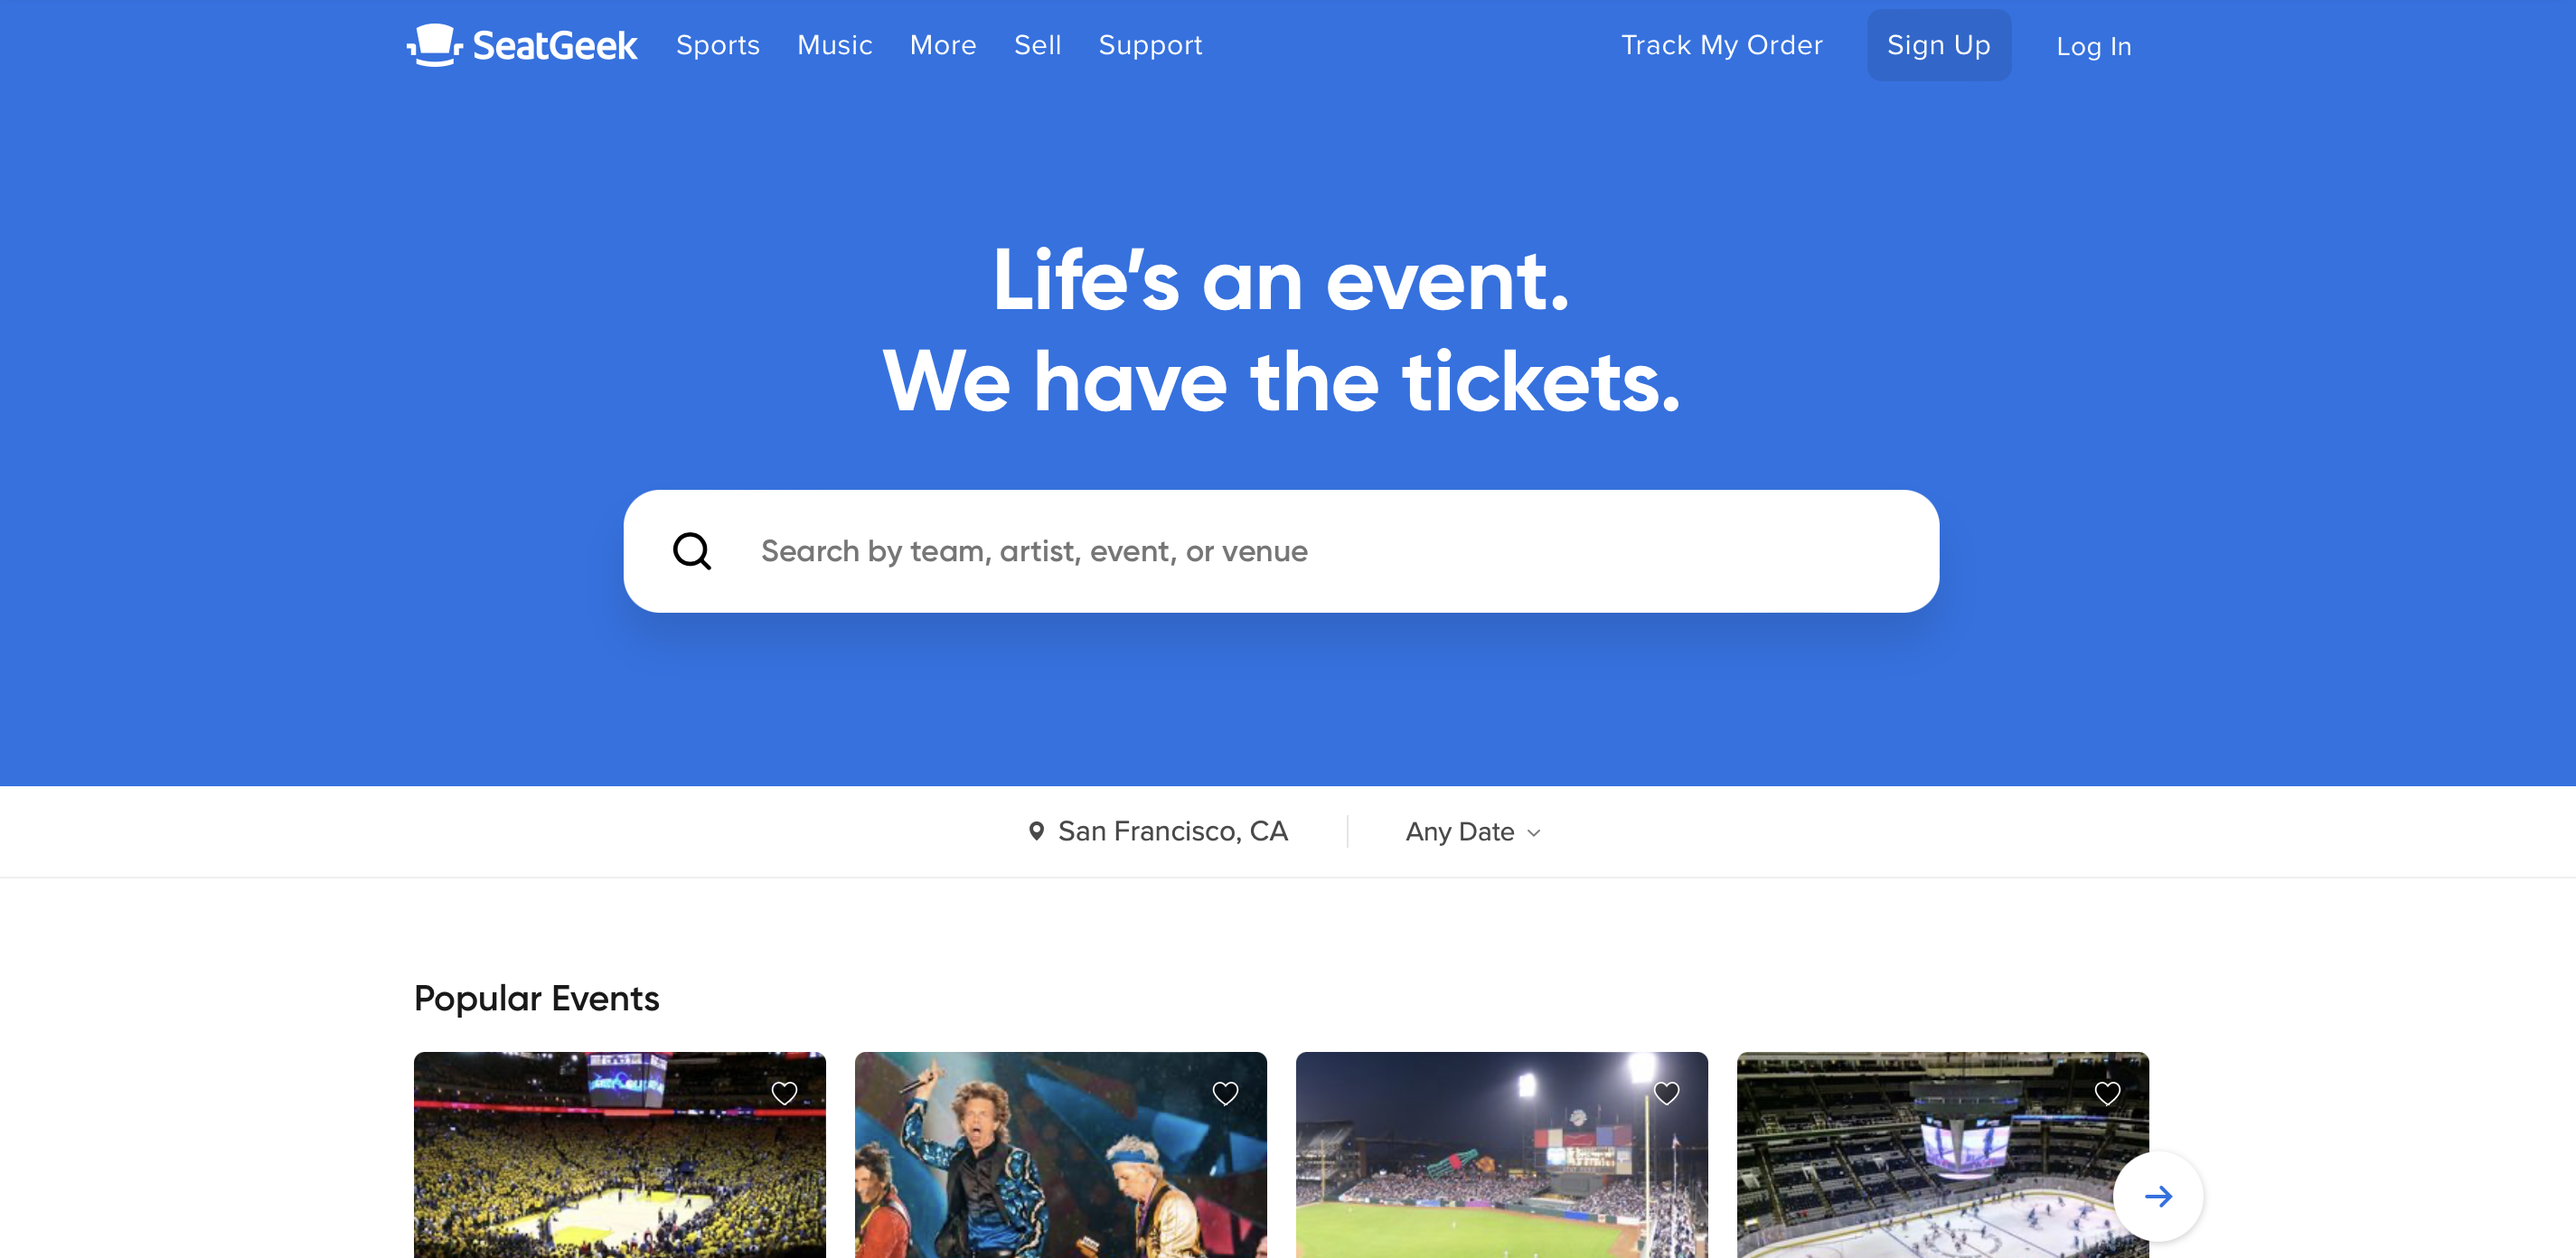
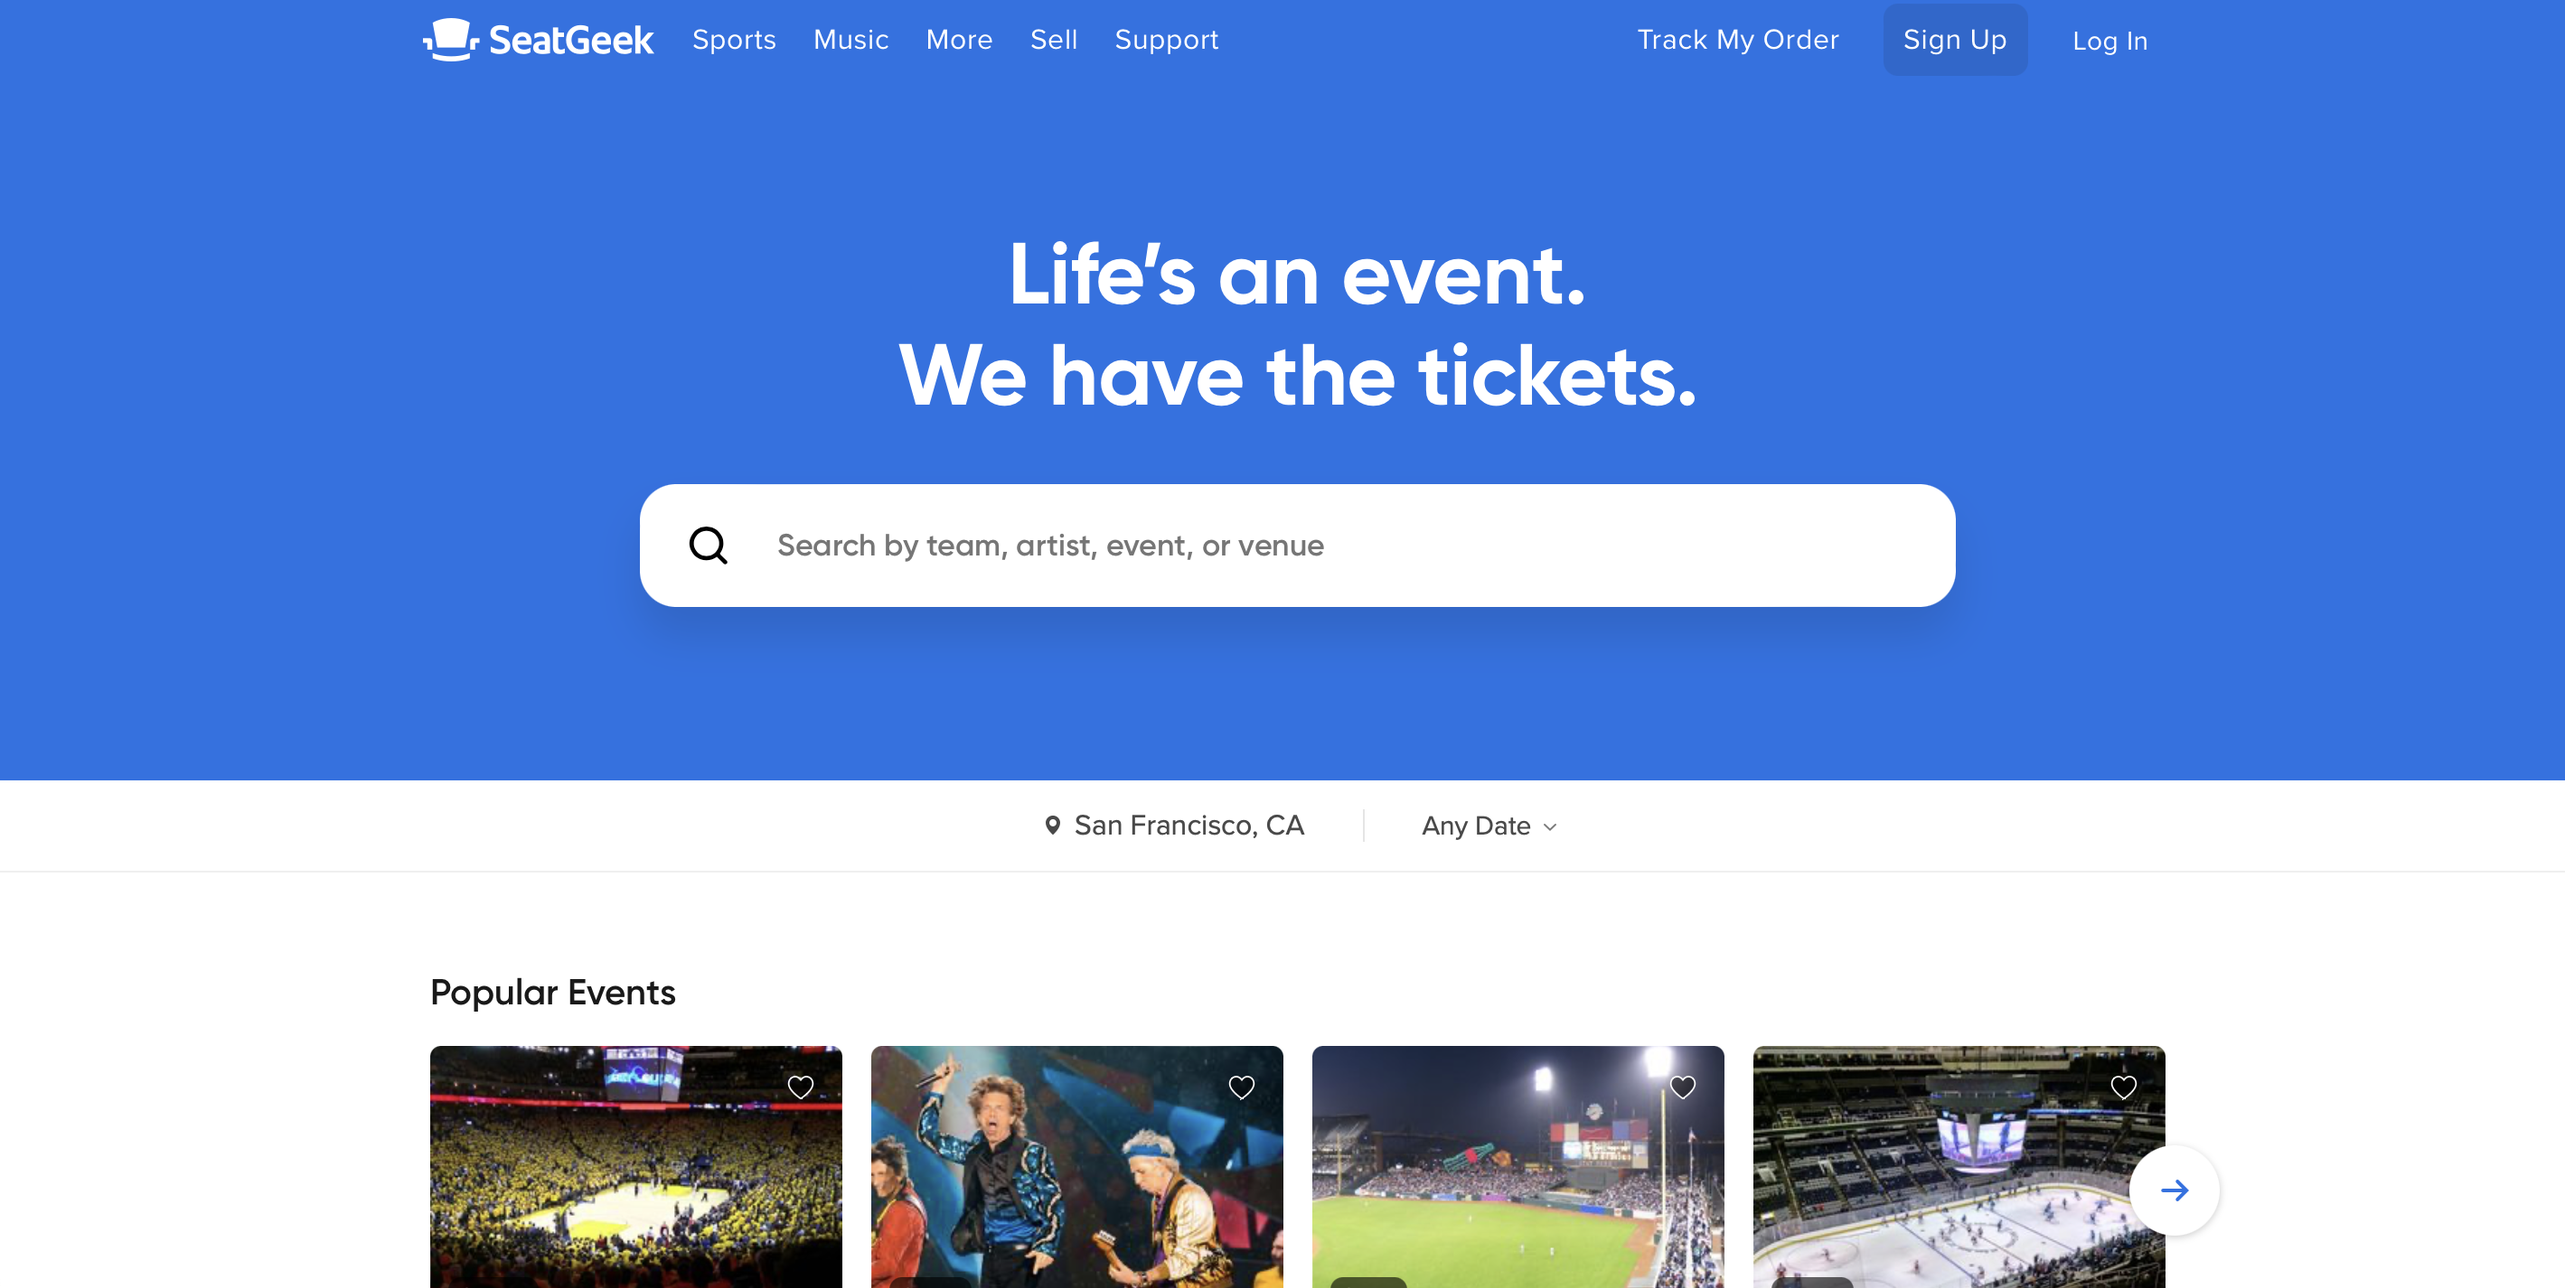
add listing

diff --git a/src/components/projects.js b/src/components/projects.js
@@ -2,27 +2,28 @@ import React from "react";
 import styled from "styled-components";
 import { useOverlay } from "../OverlayContext";
 import AppIcons from "./app-icons/AppIcons";
-import { GenericLinkButton, GitHubButton, SourceHutButton } from "./buttons";
-import { LabelIos, LabelOpenFin, LabelOpenSource, LabelWeb } from "./labels";
-import whatsAppShare from "./assets/mor/whatsapp-share.png";
-import socialprofile from "./assets/mor/social-profile.jpg";
+import alerter from "./assets/alerter/alerter.png";
+import invidilinkDefault from "./assets/invidilink/invidilink-default.png";
+import invidilinkInvidious from "./assets/invidilink/invidilink-invidious.png";
+import invidilinkList from "./assets/invidilink/invidilink-list.png";
 import homescreen from "./assets/mor/homescreen.jpg";
 import library from "./assets/mor/library.jpg";
-import alerter from "./assets/alerter/alerter.png";
-import twit2nitDefault from "./assets/twit2nit/twit2nit-default.png";
-import twit2nitList from "./assets/twit2nit/twit2nit-list.png";
-import twit2nitNitter from "./assets/twit2nit/twit2nit-nitter.png";
-import invidilinkDefault from "./assets/invidilink/invidilink-default.png";
-import invidilinkList from "./assets/invidilink/invidilink-list.png";
-import invidilinkInvidious from "./assets/invidilink/invidilink-invidious.png";
+import socialprofile from "./assets/mor/social-profile.jpg";
+import whatsAppShare from "./assets/mor/whatsapp-share.png";
+import unitedplans from "./assets/optum/optum-united-plans.png";
+import unitedtotals from "./assets/optum/optum-united-totals.png";
 import red4uDefault from "./assets/red4u/red4u-default.png";
 import red4uList from "./assets/red4u/red4u-list.png";
 import red4uViewInstance from "./assets/red4u/red4u-viewinstance.png";
 import seatgeekHome from "./assets/seatgeek/seatgeek-home.png";
-import unitedplans from "./assets/optum/optum-united-plans.png";
-import unitedtotals from "./assets/optum/optum-united-totals.png";
-import squeebles from "./assets/squeebles/squeebles.png";
+import seatgeekListing from "./assets/seatgeek/seatgeek-listing.png";
 import squeeblesDetail from "./assets/squeebles/squeebles-detail.png";
+import squeebles from "./assets/squeebles/squeebles.png";
+import twit2nitDefault from "./assets/twit2nit/twit2nit-default.png";
+import twit2nitList from "./assets/twit2nit/twit2nit-list.png";
+import twit2nitNitter from "./assets/twit2nit/twit2nit-nitter.png";
+import { GenericLinkButton, GitHubButton, SourceHutButton } from "./buttons";
+import { LabelIos, LabelOpenFin, LabelOpenSource, LabelWeb } from "./labels";
 
 const projectData = [
   {
@@ -67,7 +68,7 @@ const projectData = [
     ],
   },
   {
-    name: "SeatGeek Home",
+    name: "SeatGeek",
     description: "2019",
     repoUrl: null,
     siteUrl: null,
@@ -81,6 +82,13 @@ const projectData = [
         alt: "SeatGeek Home",
         caption: "SeatGeek Home",
         title: "Home Screen",
+        imageType: "desktop",
+      },
+      {
+        src: seatgeekListing,
+        alt: "SeatGeek Listing",
+        caption: "SeatGeek Listing",
+        title: "Listing",
         imageType: "desktop",
       },
     ],

diff --git a/src/components/app-icons/AppIcons.js b/src/components/app-icons/AppIcons.js
@@ -14,7 +14,7 @@ const AppIcons = {
   Alerter: <AlerterIcon />,
   "invidi.link": <InvidilinkIcon />,
   red4u: <Red4UIcon />,
-  "SeatGeek Home": <SeatGeekIcon2019 />,
+  "SeatGeek": <SeatGeekIcon2019 />,
   "United Health": <UnitedAarpIcon />,
   Squeebles: <SqueeblesIcon />,
 };
